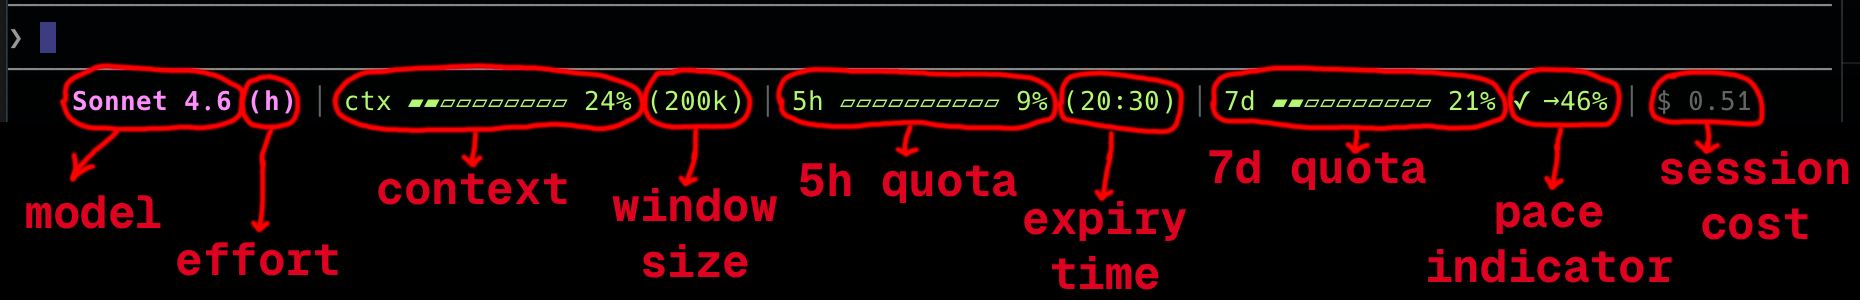
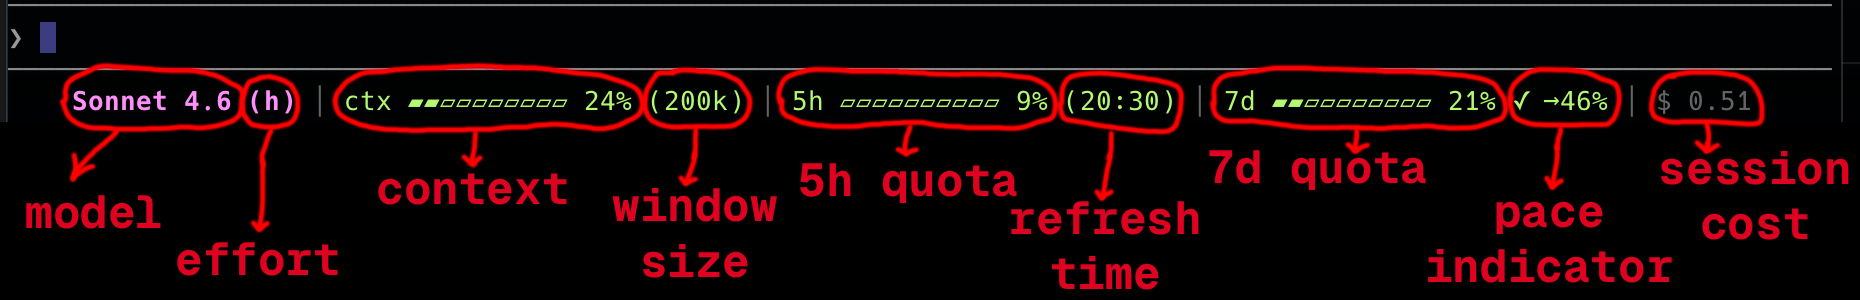
docs: update README examples and screenshot

Changed region(s): [[0.5301, 0.66, 0.6548, 0.81]]

diff --git a/README.md b/README.md
@@ -14,11 +14,11 @@ The output compresses automatically to fit any terminal width, shrinking bars an
 
 ## Examples
 
-This shows most of the features. In this example you are on pace to use 46% of the weekly quota. 
+In this example, you've used 24% of your current 200k token context window, 9% of your 5h quota, and are on pace to use 46% of the weekly quota. The 5h quota will refresh at 20:30.
 
 <img src="screenshots/screenshot1.png" alt="screenshot 1" width="1024">
 
-Here we see usage has accelerated, and you will burn through the 5h quota by 19:40. Notice the progress bars have compressed, and the model name has shrunk from 'Sonnet 4.6' to 'S 4.6'.
+Here we see your usage has accelerated. The '120%' is the burn rate - in this case you are 20% 'too fast', meaning you will run out of the 5h quota by 19:40. Notice the progress bars have compressed, and the model name has shrunk from 'Sonnet 4.6' to 'S 4.6' to account for the new 5h pace indicator.
 
 <img src="screenshots/screenshot2.png" alt="screenshot 2" width="1024">
 